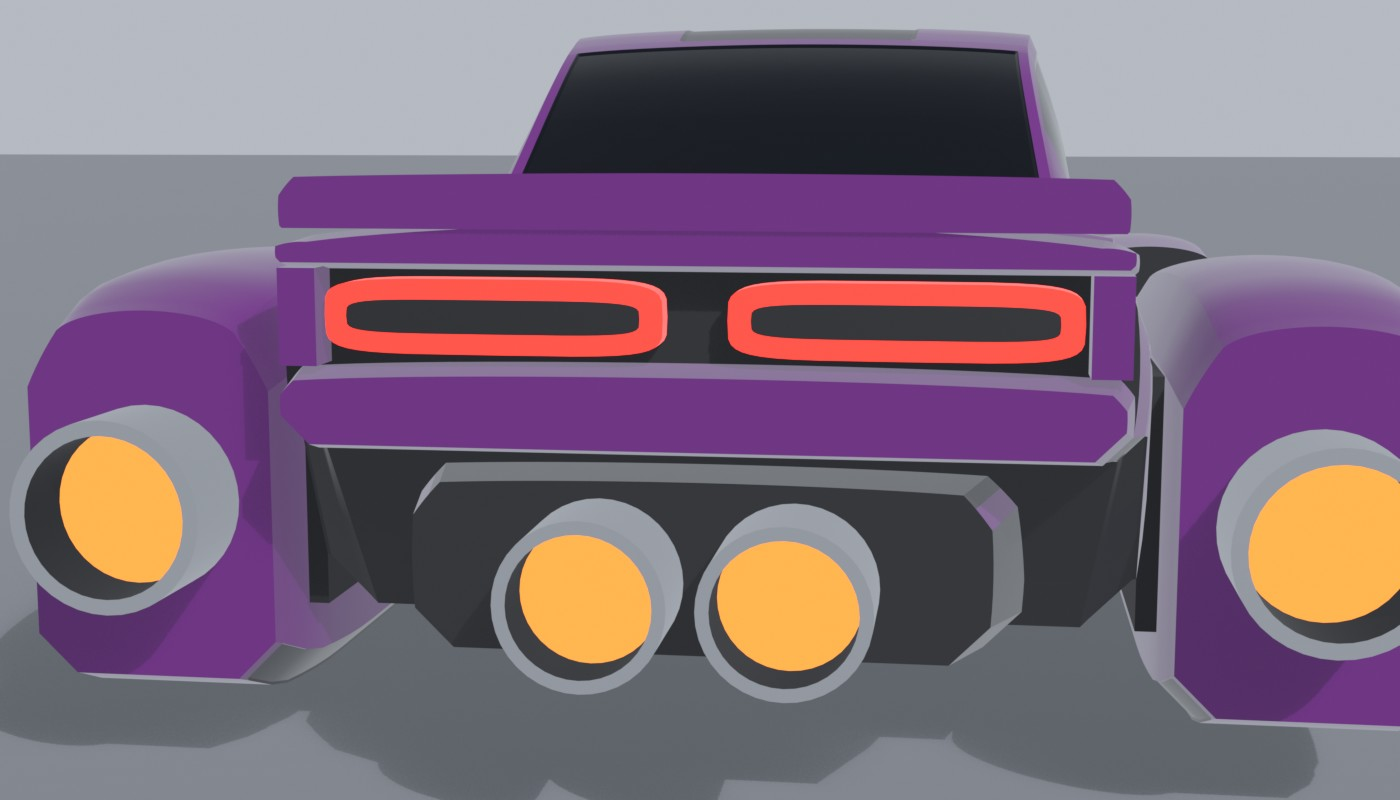
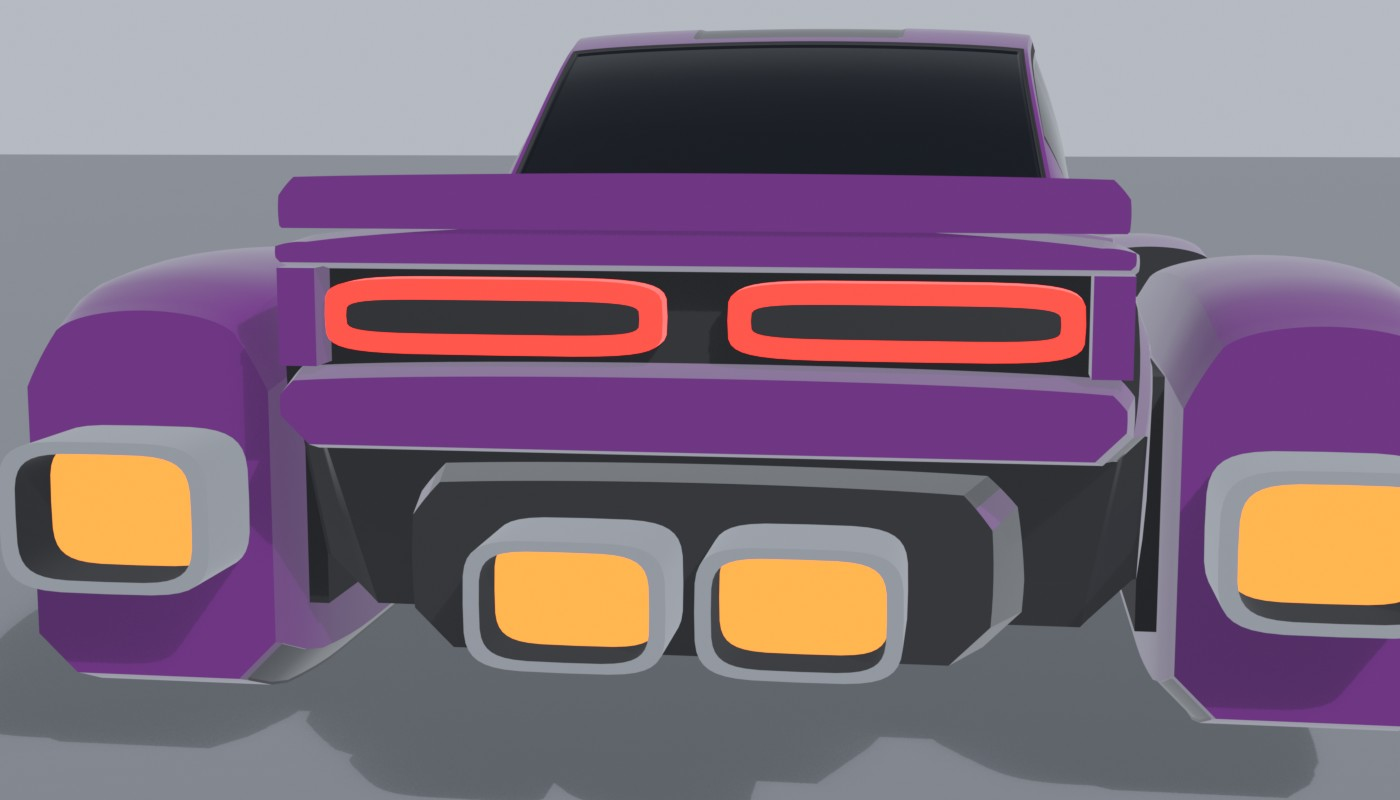
mesh: Brawler pass 9: glass with black surrounds and slim pillars; squared rear, overdrive and drift nozzles

diff --git a/scripts/exotic_category/categories/muscle/mesh/muscle_cars.py b/scripts/exotic_category/categories/muscle/mesh/muscle_cars.py
@@ -39,27 +39,32 @@ def xtube(x0, x1, z, y, r):
     return Loft([(x0, {}), (x1, {})], axis="x", cx=z, w=r, yb=y - r, yt=y + r, nt=2, nb=2, yw=0.5)
 
 
-def barrel(name, z0, z1, x, y, r, depth=0.6, collar=True):
-    """Bare turbine barrel firing backwards: tube, a dark collar and a glowing throat."""
-    t = tube(z0, z1, x, y, r)
+def barrel(name, z0, z1, x, y, r, depth=0.6, collar=True, ry=None, n=2):
+    """Jet nozzle firing backwards: a metal tube with a glowing throat. r is the half width; ry the half
+    height (defaults to r) and n the corner sharpness (2 is round, 4 to 5 a rounded rectangle), so a nozzle
+    can take the squared shape of the car instead of a plain pipe."""
+    ry = r if ry is None else ry
+    t = Loft([(z0, {}), (z1, {})], cx=x, w=r, yb=y - ry, yt=y + ry, nt=n, nb=n, yw=0.5)
     t.build(name, "metal", mirror=x != 0, caps=(True, False))
     t.throat(name + "n", "max", lip="metal", back="thrust", scale=0.84, depth=depth, mirror=x != 0)
     if collar:
         c = z0 + (z1 - z0) * 0.45
-        tube(c, c + 0.22, x, y, r + 0.09).build(name + "c", "detail", mirror=x != 0)
+        Loft([(c, {}), (c + 0.22, {})], cx=x, w=r + 0.09, yb=y - ry - 0.09, yt=y + ry + 0.09, nt=n, nb=n,
+             yw=0.5).build(name + "c", "detail", mirror=x != 0)
 
 
-def bazooka(name, x0, x1, z, y, r, back=0.8, down=0.6):
-    """Drift thruster: a fat tube that leaves the sill sideways and sweeps back and down. The glow is a disc
-    set a little way inside the open end, square to the tube, so the mouth reads as a clean ring."""
-    def at(x, rad):
+def bazooka(name, x0, x1, z, y, r, back=0.8, down=0.6, wide=1.3, flat=0.7, n=4.5):
+    """Drift thruster: a nozzle that leaves the sill sideways and sweeps back and down. Its mouth is a
+    rounded rectangle, longer along the car than it is tall, to match the squared rear nozzles. The glow is
+    a plate set a little way inside the open end, so the mouth reads as a clean frame."""
+    def at(x, k):
         s = (x - x0) / (x1 - x0)
-        return (x, dict(cx=z + back * s, w=rad, yb=y - down * s - rad, yt=y - down * s + rad))
-    Loft([at(x0, r), at(x1, r)], axis="x", nt=2, nb=2, yw=0.5).build(name, "metal", mirror=True, caps=(True, False))
-    Loft([at(x1 - 0.34, r * 0.9), at(x1 - 0.3, r * 0.9)], axis="x", nt=2, nb=2, yw=0.5).build(
-        name + "glow", "thrust", mirror=True)
-    Loft([at(x1 - 0.3, r * 0.9), at(x1, r * 0.9)], axis="x", nt=2, nb=2, yw=0.5).build(
-        name + "bore", "detail", mirror=True, caps=(False, False))
+        yc = y - down * s
+        return (x, dict(cx=z + back * s, w=r * wide * k, yb=yc - r * flat * k, yt=yc + r * flat * k))
+    kw = dict(axis="x", nt=n, nb=n, yw=0.5)
+    Loft([at(x0, 1.0), at(x1, 1.0)], **kw).build(name, "metal", mirror=True, caps=(True, False))
+    Loft([at(x1 - 0.34, 0.88), at(x1 - 0.3, 0.88)], **kw).build(name + "glow", "thrust", mirror=True)
+    Loft([at(x1 - 0.3, 0.88), at(x1, 0.88)], **kw).build(name + "bore", "detail", mirror=True, caps=(False, False))
 
 
 def halo(name, x, y, z, r):
@@ -109,12 +114,17 @@ def f_cockpit():
                (3.0, dict(w=3.66, yt=5.5, tum=0.68)),
                (6.3, dict(w=3.5, yb=3.15, yt=3.3, ys=3.2, tum=0.2, drop=0.03))],
               w=3.68, yb=3.1, ys=3.3, rb=0.04, tum=0.65, drop=0.12, wcf=0.8, d2=0.03, crown=0.04)
+    # Each opening is a black surround with the glass set inside it, so the pillars read as slim black
+    # frames and the side glass is one long opening split by a thin pillar, as on the real car.
     gh.build("cabin", "primary", regions=[
-        R(-5.75, -3.65, 4.12, 6.0, "glass", 0.03),    # windscreen
-        R(-4.75, -0.3, 3.08, 3.9, "glass", 0.03),     # door glass, follows the screen pillar
-        R(0.0, 4.7, 3.08, 3.9, "glass", 0.03),        # quarter glass, follows the roof down
-        R(3.25, 6.0, 4.15, 6.0, "glass", 0.03),       # rear window
-        R(-3.4, 3.0, 5.1, 6.0, "secondary", 0.02)])   # roof stripe
+        R(-5.88, -3.5, 4.04, 6.0, "detail", 0.015),    # windscreen surround
+        R(-5.78, -3.62, 4.1, 6.0, "glass", 0.04),      # windscreen
+        R(-5.0, 4.95, 3.02, 3.96, "detail", 0.015),    # side glass surround, one opening
+        R(-4.88, -0.2, 3.07, 3.91, "glass", 0.04),     # door glass, follows the screen pillar
+        R(-0.02, 4.8, 3.07, 3.91, "glass", 0.04),      # quarter glass, follows the roof down
+        R(3.12, 6.12, 4.06, 6.0, "detail", 0.015),     # rear window surround
+        R(3.22, 6.02, 4.12, 6.0, "glass", 0.04),       # rear window
+        R(-3.3, 2.9, 5.2, 6.0, "secondary", 0.02)])    # roof stripe
 
 
 def f_nose():
@@ -173,14 +183,14 @@ def f_fpod():
 
 
 def f_rpod():
-    """Rear engine fender: a haunch no taller than the deck, with one round barrel behind."""
+    """Rear engine fender: a haunch no taller than the deck, with one squared nozzle behind."""
     K.begin("F", "RPOD")
     pod = Hull([(POD_RZ, SIDE_R), (5.4, dict(w=1.32, yb=-1.35, yt=2.85, ys=2.0)),
                 (8.6, dict(w=1.32, yb=-1.35, yt=3.05, ys=2.15)), (10.2, dict(w=1.3, yb=-1.25, yt=2.95, ys=2.1)),
                 (11.3, dict(cx=5.4, w=1.2, yb=-0.9, yt=2.65, ys=1.9))], **SIDE_R)
     pod.build("skin", "primary", mirror=True, caps=(False, True), regions=f_pod_regions(POD_RZ, 11.3))
     pod.throat("intake", "min", lip="primary", wall="detail", back="detail", scale=0.76, depth=0.5, mirror=True)
-    barrel("barrel", 10.4, 12.3, 5.42, 0.85, 0.9, depth=0.7, collar=False)
+    barrel("barrel", 10.4, 12.3, 5.42, 0.85, 1.0, depth=0.7, collar=False, ry=0.7, n=4.5)
     flange(4.4, 10.6, -0.3, 2.1)
     lift_glow(pod, [(5.8, 9.6)])
 
@@ -229,7 +239,7 @@ def f_boost():
     Hull([(10.8, dict(w=2.85)), (12.2, dict(w=2.55, yb=-0.25))], yb=-0.45, yt=1.3, rb=0.35, ys=0.95, tum=0.25,
          drop=0.05, wcf=0.6, d2=0.0, crown=0.02).build("housing", "secondary", regions=[
              R(10.8, 12.2, 3.0, 3.6, "primary", 0.0)])
-    barrel("barrel", 11.6, 13.2, 0.86, 0.4, 0.74, depth=0.55, collar=False)
+    barrel("barrel", 11.6, 13.2, 0.98, 0.4, 0.86, depth=0.55, collar=False, ry=0.56, n=4.5)
 
 
 def f_wing():
